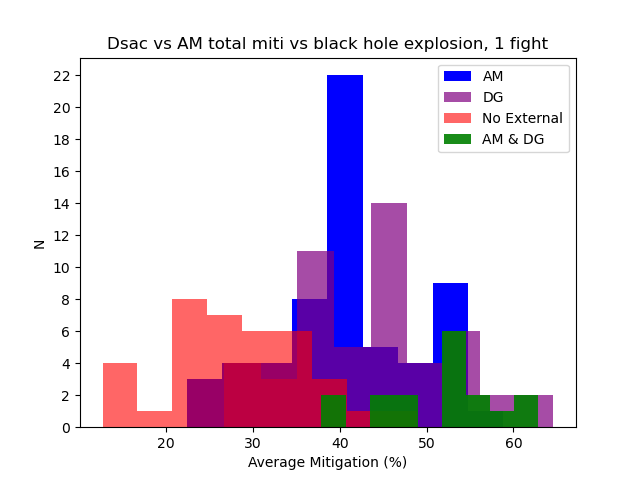
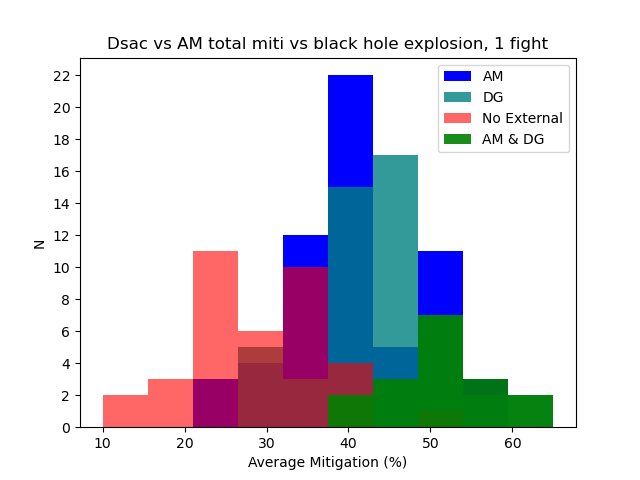
updated plots

diff --git a/am_vs_dg/test_external.py b/am_vs_dg/test_external.py
@@ -195,8 +195,10 @@ print(f'Average miti for DSac = ({dsac_mean:0.1f} +/- {dsac_std:0.1f})%')
 print(f'Average miti for both = ({both_mean:0.1f} +/- {both_std:0.1f})%')
 print(f'Average miti for none = ({none_mean:0.1f} +/- {none_std:0.1f})%')
 
-plt.hist(am, bins=9, label = "AM", color = "blue")
-plt.hist(dsac, bins=9, alpha = 0.7, label = "DG", color = "purple")
+b = np.linspace(10.0, 65.0, num = 11)
+
+plt.hist(am, bins=b, label = "AM", color = "blue")
+plt.hist(dsac, bins=b, alpha = 0.8, label = "DG", color = "teal")
 plt.title("Dsac vs AM total miti vs black hole explosion, 1 fight")
 plt.xlabel("Average Mitigation (%)")
 plt.ylabel("N")
@@ -204,8 +206,8 @@ plt.gca().yaxis.set_major_locator(plt.MultipleLocator(2))
 plt.legend()
 plt.savefig('dg_vs_am.png')
 
-plt.hist(none, bins=9, alpha = 0.6, label = "No External", color = "red")
-plt.hist(both, bins=9, alpha = 0.9, label = "AM & DG", color = "green")
+plt.hist(none, bins=b, alpha = 0.6, label = "No External", color = "red")
+plt.hist(both, bins=b, alpha = 0.9, label = "AM & DG", color = "green")
 plt.legend()
 
 plt.savefig('dg_vs_am_2.png')
